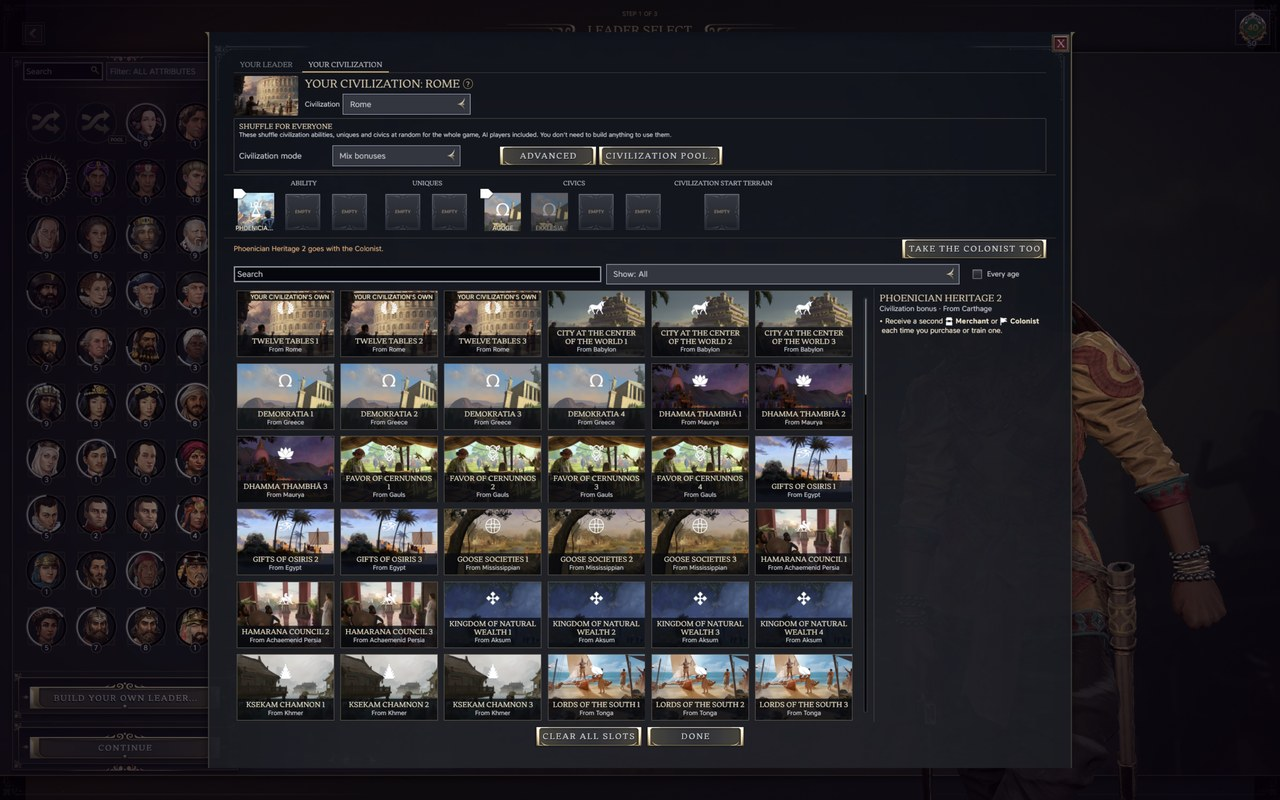
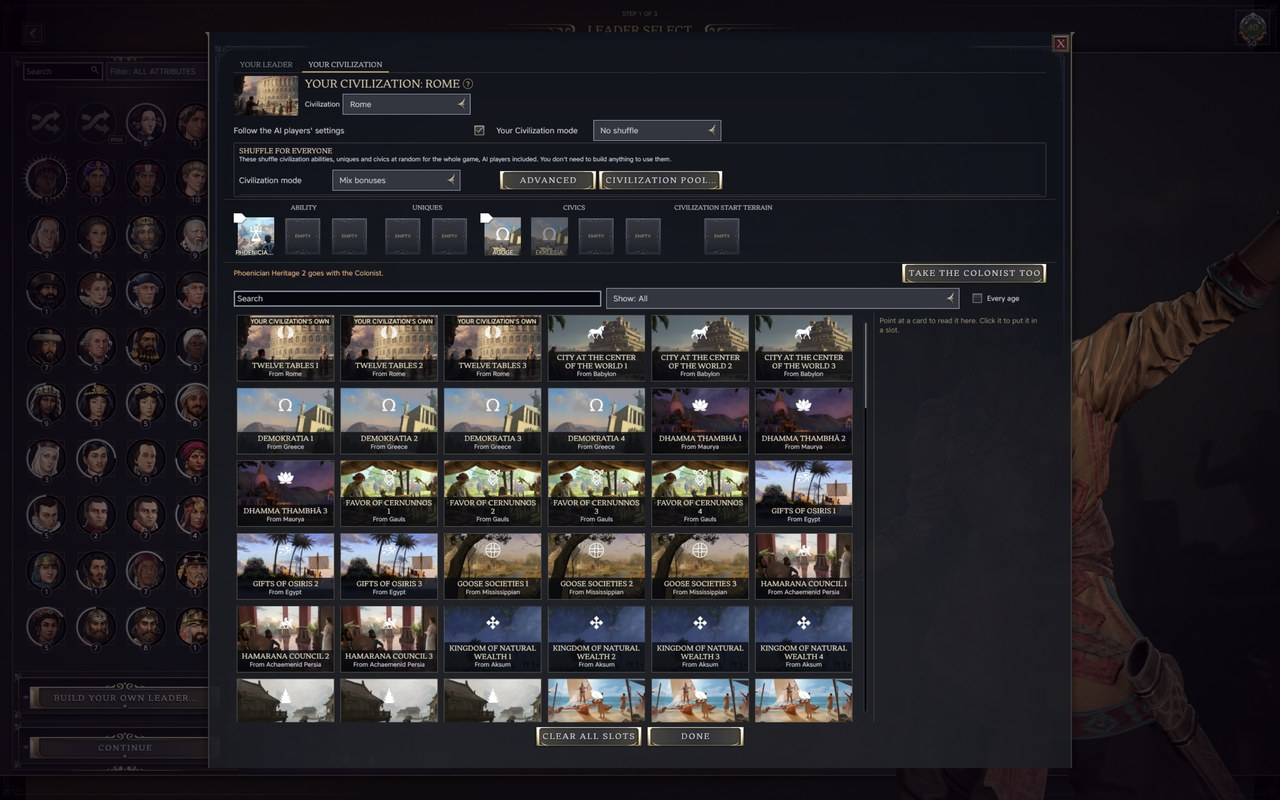
Docs and screenshots for 1.1.0
The changelog, README, Steam, GitHub, CivFanatics and ModDB descriptions cover your own mode and the agenda modes. The build page screenshots show the new box: unticked with your own Leader mode on the leader page, ticked on the civilization page. The lab results from the two games that watched the deal are recorded.

Changed region(s): [[0.1562, 0.125, 0.8438, 0.9062], [0.8125, 0.3438, 0.9688, 0.9062], [0.75, 0.9688, 0.8125, 1.0]]

diff --git a/docs/github-release.md b/docs/github-release.md
@@ -1,6 +1,8 @@
-<p align="center"><img src="https://raw.githubusercontent.com/tmtmiller1/civilizationvii_uncharted-leaders-civs-shuffle-or-build-abilities-uniques-starts/v1.0.0/docs/workshop-preview.png" alt="Uncharted Leaders & Civs" width="200"></p>
+<p align="center"><img src="https://raw.githubusercontent.com/tmtmiller1/civilizationvii_uncharted-leaders-civs-shuffle-or-build-abilities-uniques-starts/v1.1.0/docs/workshop-preview.png" alt="Uncharted Leaders & Civs" width="200"></p>
 
-Uncharted Leaders & Civs 1.0.0 is the mod's first release. It works with the Civilization VII 1.5.1 update and is single-player only.
+Version 1.1.0 adds your own Leader and Civilization mode, and two agenda modes.
+
+**Version 1.1.0. Compatible with Civilization VII 1.5.1. Single-player only.**
 
 Shuffle what leaders and civilizations bring to a game. Leaders can swap whole abilities, swap whole leaders, or have their abilities broken into single bonuses and dealt out at random. Civilizations can do the same with their abilities, unique units and civics, within each age. You can also take any part out of the game for everyone. The game's own screens show what each leader and civilization ended up with.
 
@@ -14,6 +16,7 @@ A mode sets all the rows below in one go. Leaders and civilizations have the sam
 - **Swap partial:** each leader gets another leader’s ability, with attributes dealt out separately and a random start. Each civilization’s ability, uniques and civics are each swapped whole, from different civilizations: Rome might take Greece’s ability, Egypt’s uniques and Persia’s civics.
 - **Mix bonuses:** abilities are split into bonuses and dealt out at random, along with attributes, uniques and civics. Leaders start on terrain that suits the bonuses they got.
 - **Mix bonuses, random start:** leaders only; the same, with random start terrain.
+- **Agendas only** and **Agendas and attributes:** leaders only; abilities and start terrain stay, and AI agendas (and attributes) shuffle.
 
 Change a row by hand and its mode reads Custom.
 
@@ -46,7 +49,10 @@ Off entirely takes that part out of the game for everyone. With leader abilities
 - **Choose which leaders are shuffled:** unticked leaders play as normal.
 
 ## Build your own
-Build your own leader and Build your own civilization are card screens. Fill your slots from another leader's bonuses or whole ability, attributes, AI behavior and start terrain, or another civilization's ability or bonuses, uniques, civics and start terrain. Tick Every age to take a civilization's ability or start terrain from another age. The cards you leave are shuffled among the AI players. When a card goes with another, a button adds the other one. Each screen shows its mode, with Advanced for the other rows, and the civilization select between ages has the same Build your own civilization button.
+Build your own leader and Build your own civilization are card screens. Fill your slots from another leader's bonuses or whole ability, attributes, AI behavior and start terrain, or another civilization's ability or bonuses, uniques, civics and start terrain. Tick Every age to take a civilization's ability or start terrain from another age. The cards you leave are shuffled among the AI players. When a card goes with another, a button adds the other one. The civilization select between ages has the same Build your own civilization button.
+
+## Your own mode
+On a build page, untick **Follow the AI players' settings** and pick your own Leader mode or Civilization mode. Yours shuffles you, and Advanced Settings shuffles the AI players. Cards you build stay yours.
 
 ## Advanced settings
 - **Split fairness:** Fair shares gives everyone about the same strength. With Pure luck some leaders end up stronger.

diff --git a/README.md b/README.md
@@ -7,7 +7,7 @@ abilities, swap whole leaders, or have their abilities broken into single bonuse
 can do the same with their abilities, attribute tags, unique units and civics, within each age. Any part can be taken
 out of the game for everyone. The game's own screens show what each leader and civilization ended up with.
 
-Status: 1.0.0, unreleased. Checked offline with lint and tests on the Antiquity, Exploration and Modern databases; much
+Status: 1.1.0, unreleased. Checked offline with lint and tests on the Antiquity, Exploration and Modern databases; much
 of it has been seen in lab games (devtools/probes/RESULTS-*.md), and what still has to be seen is on the workspace
 [WATCH_LIST.md](../../WATCH_LIST.md). It ships single-player only: multiplayer hasn't been tested, and the
 first release says so.
@@ -24,6 +24,12 @@ first release says so.
   civilization select. AI players gives each AI a Leader and a Civilization dropdown.
 - **Build your own leader and Build your own civilization**, card screens for your own leader and civilization. The
   cards you leave are shuffled among the AI players. When a card goes with another, a button adds the other one.
+- **Your own mode.** Each build page has **Follow the AI players' settings**, ticked by default, and your own Leader
+  mode or Civilization mode. Pick a mode of your own and the box unticks: you're shuffled by your mode and the AI
+  players by the settings in Advanced Settings, with your share laid on top as copies, so the AI players keep theirs.
+  Cards you build stay yours either way.
+- **Agendas only** and **Agendas and attributes**, two more Leader modes: abilities and start terrain stay as they
+  are, and AI agendas (and attributes) are shuffled.
 - **Things that need each other stay together**: a quarter's two civics, the great people a quarter brings, the Sherpa
   and its power station, Sengoku's Samurai and Kinsei, Carthage's second Colonist with the Colonist, the Pirate
   Republic's "no Settlers" with the Buccaneer, and the rules the game keeps on an ability for one of its uniques
@@ -59,8 +65,8 @@ Steam doesn't take the preview through `steamcmd` for this account, so it goes u
 ![Civilizations' dealt attribute tags on the civilization select, the new buttons boxed](docs/screenshots/05-civilization-select.jpg)
 ![The Civilization pool button under Random](docs/screenshots/06-civilization-pool-button.jpg)
 ![The Build your own civilization button](docs/screenshots/07-build-your-own-civilization.jpg)
-![Build your own leader](docs/screenshots/08-build-leader.jpg)
-![Build your own civilization, with Carthage's bonus and the Colonist](docs/screenshots/09-build-civilization.jpg)
+![Build your own leader, with your own Leader mode and the AI players on Mix bonuses](docs/screenshots/08-build-leader.jpg)
+![Build your own civilization, following the AI players' settings, with Carthage's bonus and the Colonist](docs/screenshots/09-build-civilization.jpg)
 ![The Leader pool](docs/screenshots/10-leader-pool.jpg)
 ![The AI players window](docs/screenshots/11-ai-players.jpg)
 ![Who got what in the diplomacy leader panel](docs/screenshots/12-who-got-what.jpg)

diff --git a/devtools/probes/RESULTS-2026-11-12.md b/devtools/probes/RESULTS-2026-11-12.md
@@ -46,3 +46,19 @@ Probes in the workspace's `tools/plans/night-2026-11-10/probes/`, every other mo
 
 ## Not settled
 
+
+## Your own mode, 1.1.0 build (branch human-mode, evening)
+
+Probe `tools/plans/night-2026-11-10/probes/rel-humanmode.probe.js`, Antiquity seed 4242, Amina of Rome as the seat,
+"Follow the AI players' settings" unticked, every other mod off. Read from the game's own deal tables.
+
+- You on Agendas only, AI players on Mix bonuses (rel-humanmode-a): Amina keeps her whole ability, her Economic and
+  Militaristic attributes and her start terrain, and plays with Charlemagne's agendas. Every AI is dealt Mix bonuses
+  (Augustus: Alexander's, Napoleon's and Machiavelli's bonuses, Economic and Scientific).
+- You on Swap whole, AI players on No shuffle (rel-humanmode-b): Amina holds Augustus's whole ability, his Cultural and
+  Expansionist attributes, his agendas and start terrain. Every AI is as shipped; Augustus keeps his own ability too.
+- The build page (capture `working_screenshots/rel-2026-11-12/uncharted-build-page.png`): "Follow the AI players'
+  settings", ticked, and "Your Leader mode" beside it, above the Shuffle for everyone box.
+
+Not yet seen: the box unticking when a mode is picked by hand, the civilization page's own mode in a game, and the
+two Agendas presets as the AI players' Leader mode.

diff --git a/CHANGELOG.md b/CHANGELOG.md
@@ -3,6 +3,21 @@
 Changes to Uncharted Leaders & Civs for Civilization VII. The format follows
 [Keep a Changelog](https://keepachangelog.com/) and Semantic Versioning.
 
+## [1.1.0] - Unreleased
+
+### Added
+- Your own mode. Both build pages have a **Follow the AI players' settings** box, ticked by default, and your own
+  Leader mode or Civilization mode. Pick a mode of your own and the box unticks: you're shuffled by your mode, and
+  the AI players by the settings in Advanced Settings. Your share is laid on top as copies, so an AI player whose
+  bonus you took keeps it too. Cards you build stay yours either way. Ticking the box again puts you back on the AI
+  players' settings.
+- Two more Leader modes, **Agendas only** (abilities, attributes and start terrain stay; AI agendas are shuffled) and
+  **Agendas and attributes** (abilities and start terrain stay; attributes and AI agendas are shuffled). Picking one
+  also sets AI agendas to Swap whole.
+
+### Fixed
+- AI agendas set to Swap whole now shuffle even when leader abilities are on Base game.
+
 ## [1.0.0] - Unreleased
 
 The first release.

diff --git a/docs/SPEC.md b/docs/SPEC.md
@@ -633,6 +633,8 @@ ability and attributes, the attribute victory strategies, and `LeaderCivPrioriti
 
 With Leader abilities on None, agendas and `LeaderCivPriorities` follow this setting the same way, with no bonus lists
 left to follow.
+With Leader abilities on Base game, Shuffled still deals whole personalities among the leaders in the ability pool;
+that's what the Agendas only and Agendas and attributes modes do (CONTRACTS 33, 1.1.0).
 
 ## 6. Rolling a start bias from scratch
 
